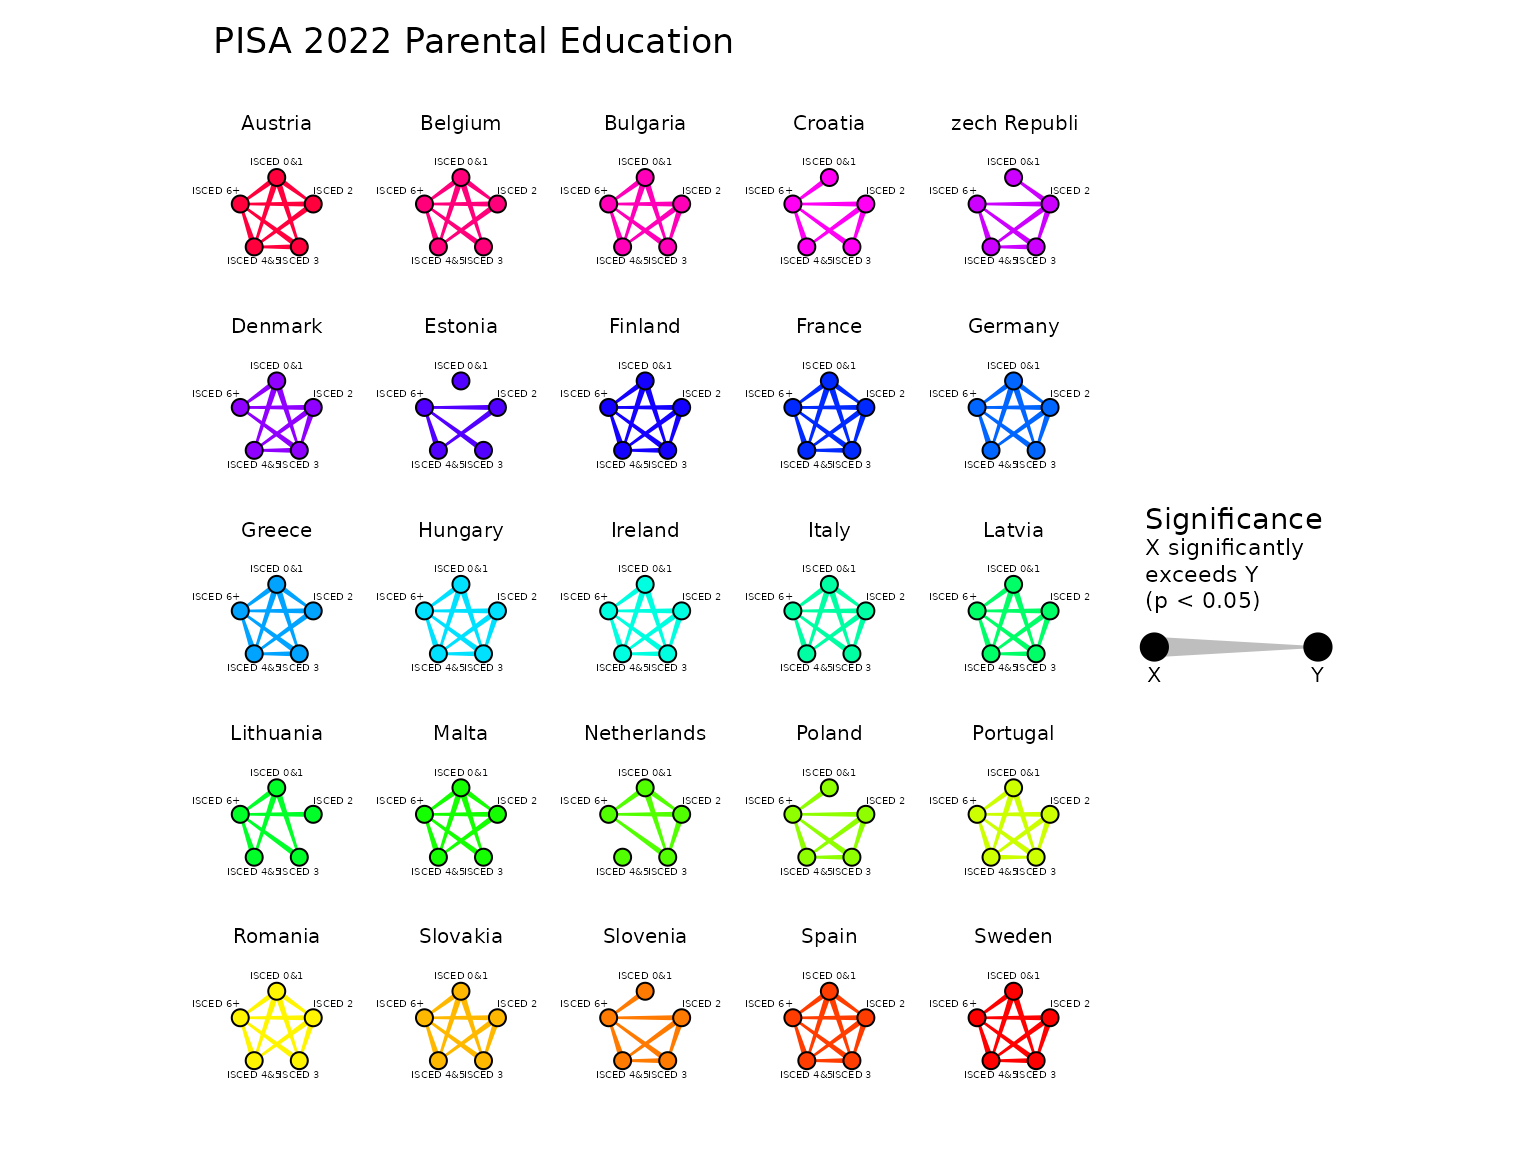
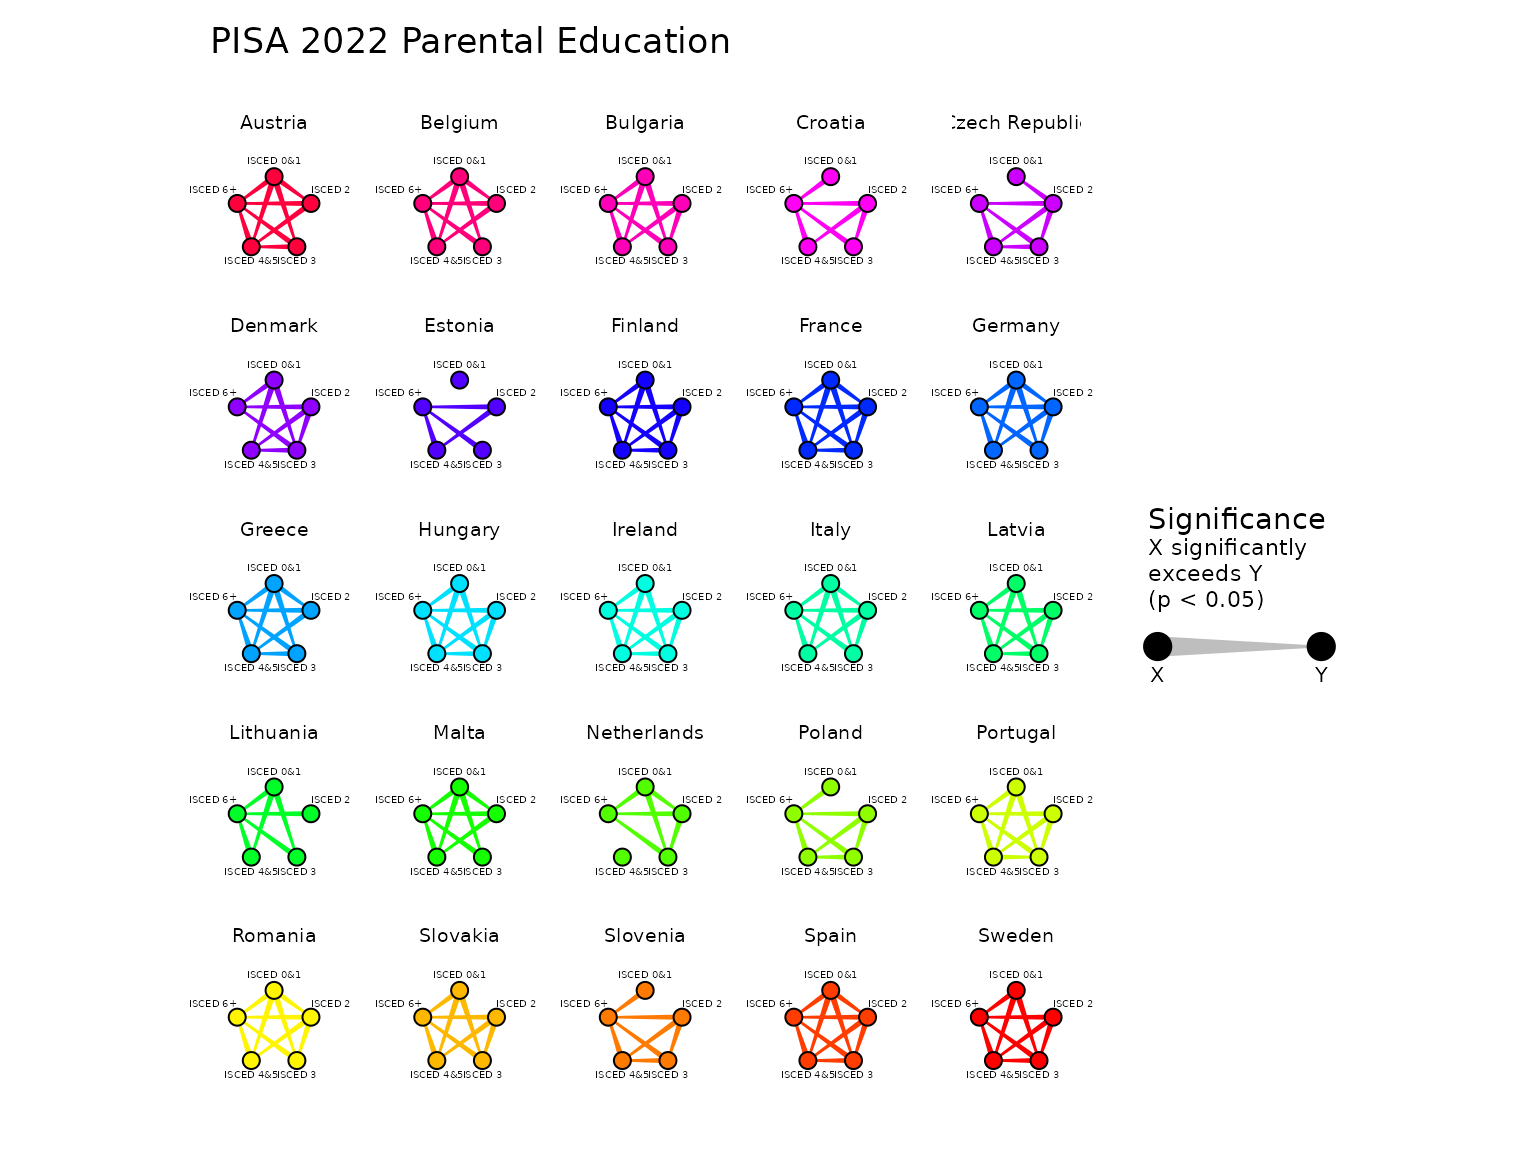
Deploying to gh-pages from @ valentinsvelev/gglyph@82db5fe33a60b86a863fe16840ac3aaf9129c3b3 🚀

diff --git a/articles/gglyph.html b/articles/gglyph.html
@@ -61,7 +61,7 @@
                         <h4 data-toc-skip class="author">Valentin Velev
 (University of Konstanz)</h4>
             
-            <h4 data-toc-skip class="date">2025-09-15</h4>
+            <h4 data-toc-skip class="date">2025-09-19</h4>
       
       <small class="dont-index">Source: <a href="https://github.com/valentinsvelev/gglyph/blob/main/vignettes/gglyph.Rmd" class="external-link"><code>vignettes/gglyph.Rmd</code></a></small>
       <div class="d-none name"><code>gglyph.Rmd</code></div>
@@ -69,23 +69,6 @@
 
     
     
-<style>
-  /* Set fontsize for body text*/
-  body {
-    font-size: 15px;
-  }
-  
-  /* Increase space after bullet point*/
-  ul li {
-    margin-bottom: 10px;
-  }
-  
-  /* Set the width of the code chunks */
-  div.sourceCode {
-    width: 111% !important;
-    max-width: none !important;
-  }
-</style>
 <div class="section level2">
 <h2 id="the-package">The Package<a class="anchor" aria-label="anchor" href="#the-package"></a>
 </h2>
@@ -3798,7 +3781,7 @@ NA
 <span>    node_colour <span class="op">=</span> <span class="st">"black"</span>,</span>
 <span>    edge_fill <span class="op">=</span> <span class="va">rainbow</span>,</span>
 <span>    label_size <span class="op">=</span> <span class="fl">3.75</span>,</span>
-<span>    group_label_size <span class="op">=</span> <span class="fl">7.5</span></span>
+<span>    group_label_size <span class="op">=</span> <span class="fl">7.25</span></span>
 <span>  <span class="op">)</span> <span class="op">+</span></span>
 <span>  <span class="fu"><a href="https://ggplot2.tidyverse.org/reference/facet_wrap.html" class="external-link">facet_wrap</a></span><span class="op">(</span><span class="op">~</span> <span class="va">group</span><span class="op">)</span> <span class="op">+</span></span>
 <span>  <span class="fu"><a href="https://ggplot2.tidyverse.org/reference/labs.html" class="external-link">labs</a></span><span class="op">(</span>title <span class="op">=</span> <span class="st">"PISA 2022 Parental Education"</span><span class="op">)</span></span></code></pre></div>
